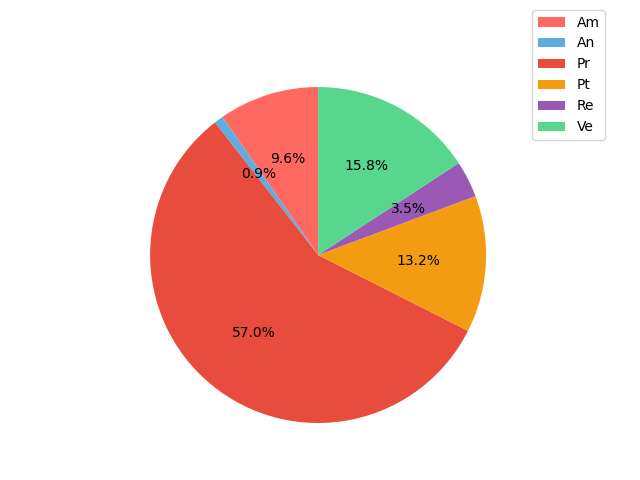
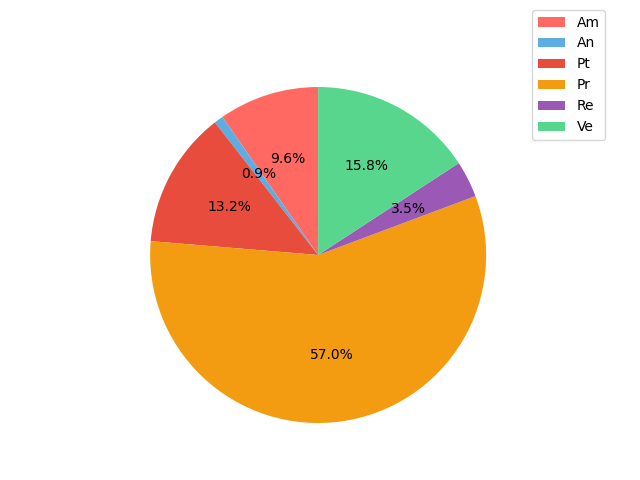
Fix reordering columns in tables generated by the python script

Changed region(s): [[0.2188, 0.5, 0.75, 0.9062], [0.3125, 0.4062, 0.4062, 0.4375], [0.625, 0.5312, 0.6875, 0.5625]]

diff --git a/src/3_PB/PianoDiProgetto/timeresource_sheets_downloader.py b/src/3_PB/PianoDiProgetto/timeresource_sheets_downloader.py
@@ -204,6 +204,18 @@ for sprint_key in sprints:
         ],
         ignore_index=True,
     )
+    rendicontazione_ore = rendicontazione_ore.reindex(
+        columns=[
+            "Nominativo",
+            AMMINISTRATORE,
+            ANALISTA,
+            PROGETTISTA,
+            PROGRAMMATORE,
+            RESPONSABILE,
+            VERIFICATORE,
+            "Totale per persona",
+        ]
+    )
 
     # Saving sprint related analyzed data to csv
     rendicontazione_ore.to_csv(
@@ -215,16 +227,16 @@ for sprint_key in sprints:
     time_values = [
         tot_ore_amministratore,
         tot_ore_analista,
-        tot_ore_programmatore,
         tot_ore_progettista,
+        tot_ore_programmatore,
         tot_ore_responsabile,
         tot_ore_verificatore,
     ]
     role_values = [
         AMMINISTRATORE,
         ANALISTA,
-        PROGRAMMATORE,
         PROGETTISTA,
+        PROGRAMMATORE,
         RESPONSABILE,
         VERIFICATORE,
     ]
@@ -256,7 +268,7 @@ for sprint_key in sprints:
     )
     rendicontazione_ore_wo_totale_persona = (
         rendicontazione_ore_wo_totale_persona.reindex(
-            columns=["Nominativo", "Am", "An", "Pr", "Pt", "Re", "Ve"]
+            columns=["Nominativo", "Am", "An", "Pt", "Pr", "Re", "Ve"]
         )
     )
     rendicontazione_ore_wo_totale_persona = rendicontazione_ore_wo_totale_persona[
